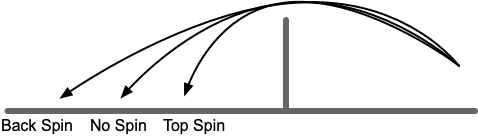
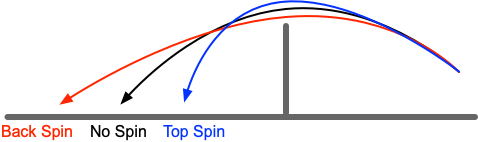
Revise words for lob

Changed region(s): [[0.1172, 0.0, 0.9665, 0.7353], [0.0, 0.7941, 1.0, 1.0]]

diff --git a/09_lob_en.md b/09_lob_en.md
@@ -1,38 +1,42 @@
 # How to Lob
 
-The Lob technique is close to the badminton technique of pushing the ball to the backcourt.
+The Lob technique is close to the badminton technique of pushing the ball high and let it land to the backcourt.
 
-This technology is easily overlooked, but it is very useful in actual combat, which can change pace and create new competition situation.
+This technology is easily overlooked, but it is very useful in actual combat, which can change the pace and create new competition situation.
 
 ## What is Lob
 
-Lobing the ball mainly refers to the technique of jumping the ball into the opponent's backcourt. Proper use of the Lob-and-Lob technique can mobilize the opponent's movement, change the rhythm of the game, and create opportunities for offense.
+Lobing the ball mainly refers to the technique of lifting the ball into the opponent's backcourt. Proper use of the Lob technique can mobilize the opponent's movement, change the rhythm of the game, and create opportunities for attack.
 
-* Backcourt Lob: Lobing the ball from the backcourt to the opponent's backcourt, in order to slow down the gamee pace;
-* Midfield Lob: Lob the ball to the opponent's backfield from the midfield position;
-* Near-net Lob: when the opponent's return is high or far, lob can force the opponents to go to the back court.
+![Lob Types](_images/lob.png)
+
+Based on the position of lob, there are majorly three types:
+
+* Backcourt Lob: Lobing the ball from the backcourt to the opponent's backcourt, in order to change the game pace. In order to avoid hitting the ball out, you can use top spin;
+* Mid-court Lob: Lob the ball to the opponent's backcourt from the mid-court position, which is more offensive and prevents the opponent to go to net quickly;
+* Near-net Lob: when the opponent's return is high or far, lob can force the opponents to go to the back court, which can create a good attack opportunity.
 
 ## When to use Lob
 
-When the opponent's position or attention is in the frontcourt, and the jump or back footwork is not good enough, you can use the Lob-ball technique to force the opponent to hit the ball in the backcourt.
+When the opponent's position or attention is in the frontcourt, and the jump or retreat footwork is not good, you can use the Lob to force the opponent to stay at the backcourt.
 
 Lobing the ball can save you from passive to proactive, and can also actively create opportunities for potential volleys.
 
-After lobing the ball, move to the net and prepare to attack when the opponent returns the ball too high.
+After lobing the ball, move to the net in timee and prepare to attack when the opponent returns the ball too high.
 
 ## How to master the Lob
 
-The core point of Lobing the ball is to keep the ball higher than the opponent's position after jump to avoid the opponent volleying in the air. Therefore, the parabolic high point of the Lob ball should be close to the opponent's baseline, so that the ball falls vertically near the baseline and does not go out.
+The core point of lobing the ball is to keep the ball higher than the opponent's top after jump to avoid the opponent volleying in the air. Therefore, the parabolic high point of the Lob ball should be close to the opponent's middle court, so that the ball falls vertically near the baseline and does not go out.
 
 When lobbing the ball, keep in mind:
 
-* Keep a similar action as Dink, to avoid the opponent's prejudgment to volley.
+* Keep a similar action as Dink or Drive, to avoid the opponent's prejudgment.
 * Control the trajectory's height, let it stay just above the opponent's volley top.
-* Control the ball's landing point, let it land as close to the baseline as possible. Usually let it land near opponent's backhand side.
+* Control the ball's landing point, let it land as close to the baseline as possible. Usually let it land near opponent's backhand side, which is harder to handle.
+
+When the opponent lobs the ball, you should first quickly judge whether you can jump and volley the ball back. If not, you should quickly run to the position the ball is flying to. Wait for the ball to land and bounce, and then hit it back. Usually use Drop or Lob to return the ball in this situation.
 
 Lobing the ball can be practiced in a number of ways:
 
 * Multi-ball practice: repeatedly Lob the ball to correct the trajectory and landing point;
-* Ball feeding practice: The sparring party gives balls in different positions to carry out ball Lobing training.
-
-When the opponent lobs the ball, you should first quickly judge whether you can jump and volley back directly. If not, you should quickly run to the area the ball is flying to. If the ball is landing in the court, wait for the ball to land and bounce and then hit back the ball. Usually use Drop to return the ball in this situation.
+* Ball feeding practice: The assistant player gives balls in different positions to carry out ball Lobing training.

diff --git a/09_lob_cn.md b/09_lob_cn.md
@@ -8,9 +8,13 @@
 
 挑球主要是指将球跳高落到对方后场的技术。适当使用挑球技术可以调动对手跑位，改变比赛节奏，为进攻创造机会。
 
-* 远网挑球：从后场位置将球挑到对方后场，通过过渡来调节比赛节奏；
-* 中场挑球：在中场位置将球挑到对方后场；
-* 近网挑球：当对方回球较高时，或当对方 Dink 回球质量不高时，挑球来迫使对方退到后场；
+![挑球的三种类型](_images/lob.png)
+
+根据挑球位置，可以分为三类：
+
+* 远网挑球：从后场位置将球挑到对方后场，通过过渡来调节比赛节奏。为避免出界，多采用上旋球；
+* 中场挑球：在中场位置将球挑到对方后场。具有较大的攻击性，可以破坏对方的上网节奏；
+* 近网挑球：当对方回球较高时，或当对方 Dink 回球质量不高时，前场挑球来迫使对方退到后场。往往会产生较好的进攻机会；
 
 ## 何时使用挑球
 
@@ -22,7 +26,7 @@
 
 ## 如何掌握挑球
 
-挑球的核心要点在于要高于对方起跳后的位置，避免对方在半空截击。因此，挑球的抛物线高点应该在接近对方底线位置，使球在底线附近垂直下落，并且不出界。
+挑球的核心要点在于要高于对方起跳后的位置，避免对方在半空截击。因此，挑球的抛物线高点应该在接近对方中场位置，使球在底线附近垂直下落，并且不出界。
 
 进行挑球时要注意：
 
@@ -30,9 +34,9 @@
 * 控制球的飞行高度，刚好过对方头顶截击为佳。
 * 控制球的落点，尽量接近底线附近。通常可以偏反手位。
 
+当对方挑球时，应当首先快速判断是否能直接跳杀截击。如果不能，应当随球迅速跑向后场球飞行的前方，如果球不出界，等球落地再弹起后击打球。回球应当以放网球为主。
+
 挑球可以通过多种方法进行练习：
 
 * 多球练习：重复挑球来校正轨迹和落点；
 * 喂球练习：陪练方给出不同位置的球，进行挑球训练。
-
-当对方挑球时，应当首先快速判断是否能直接跳杀截击。如果不能，应当随球迅速跑向后场球飞行的前方，如果球不出界，等球落地再弹起后击打球。回球应当以放网球为主。
